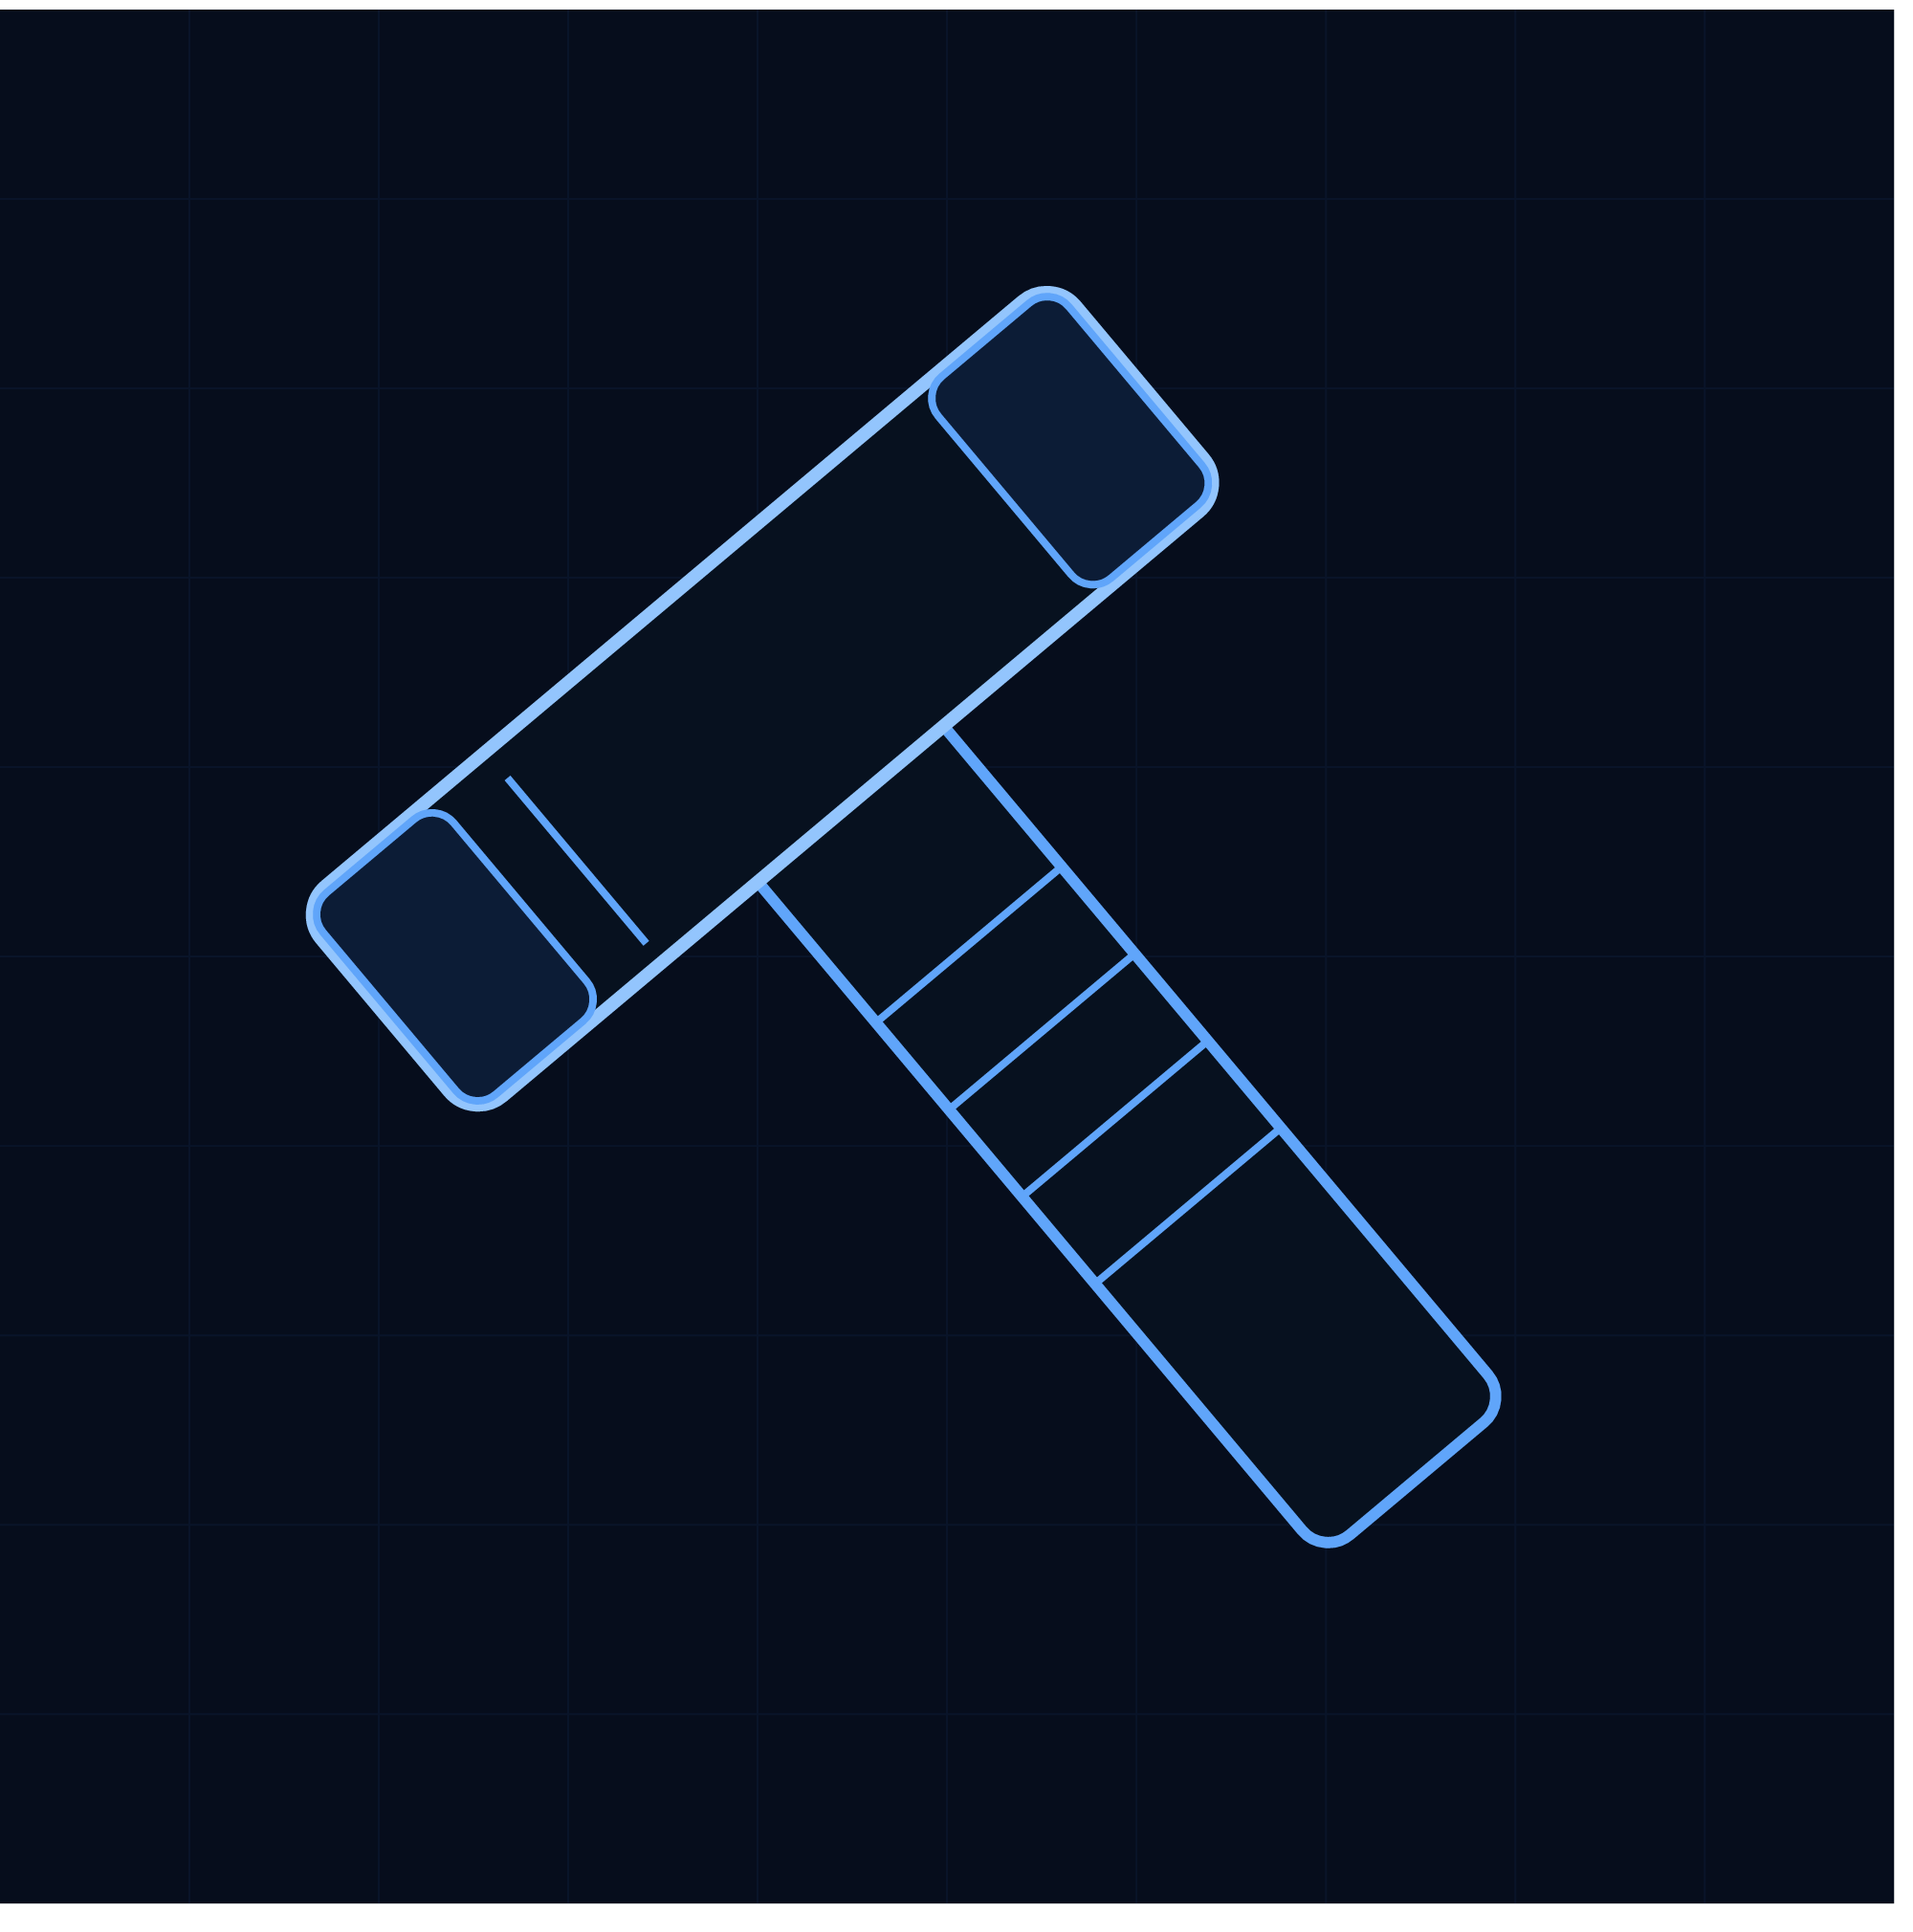
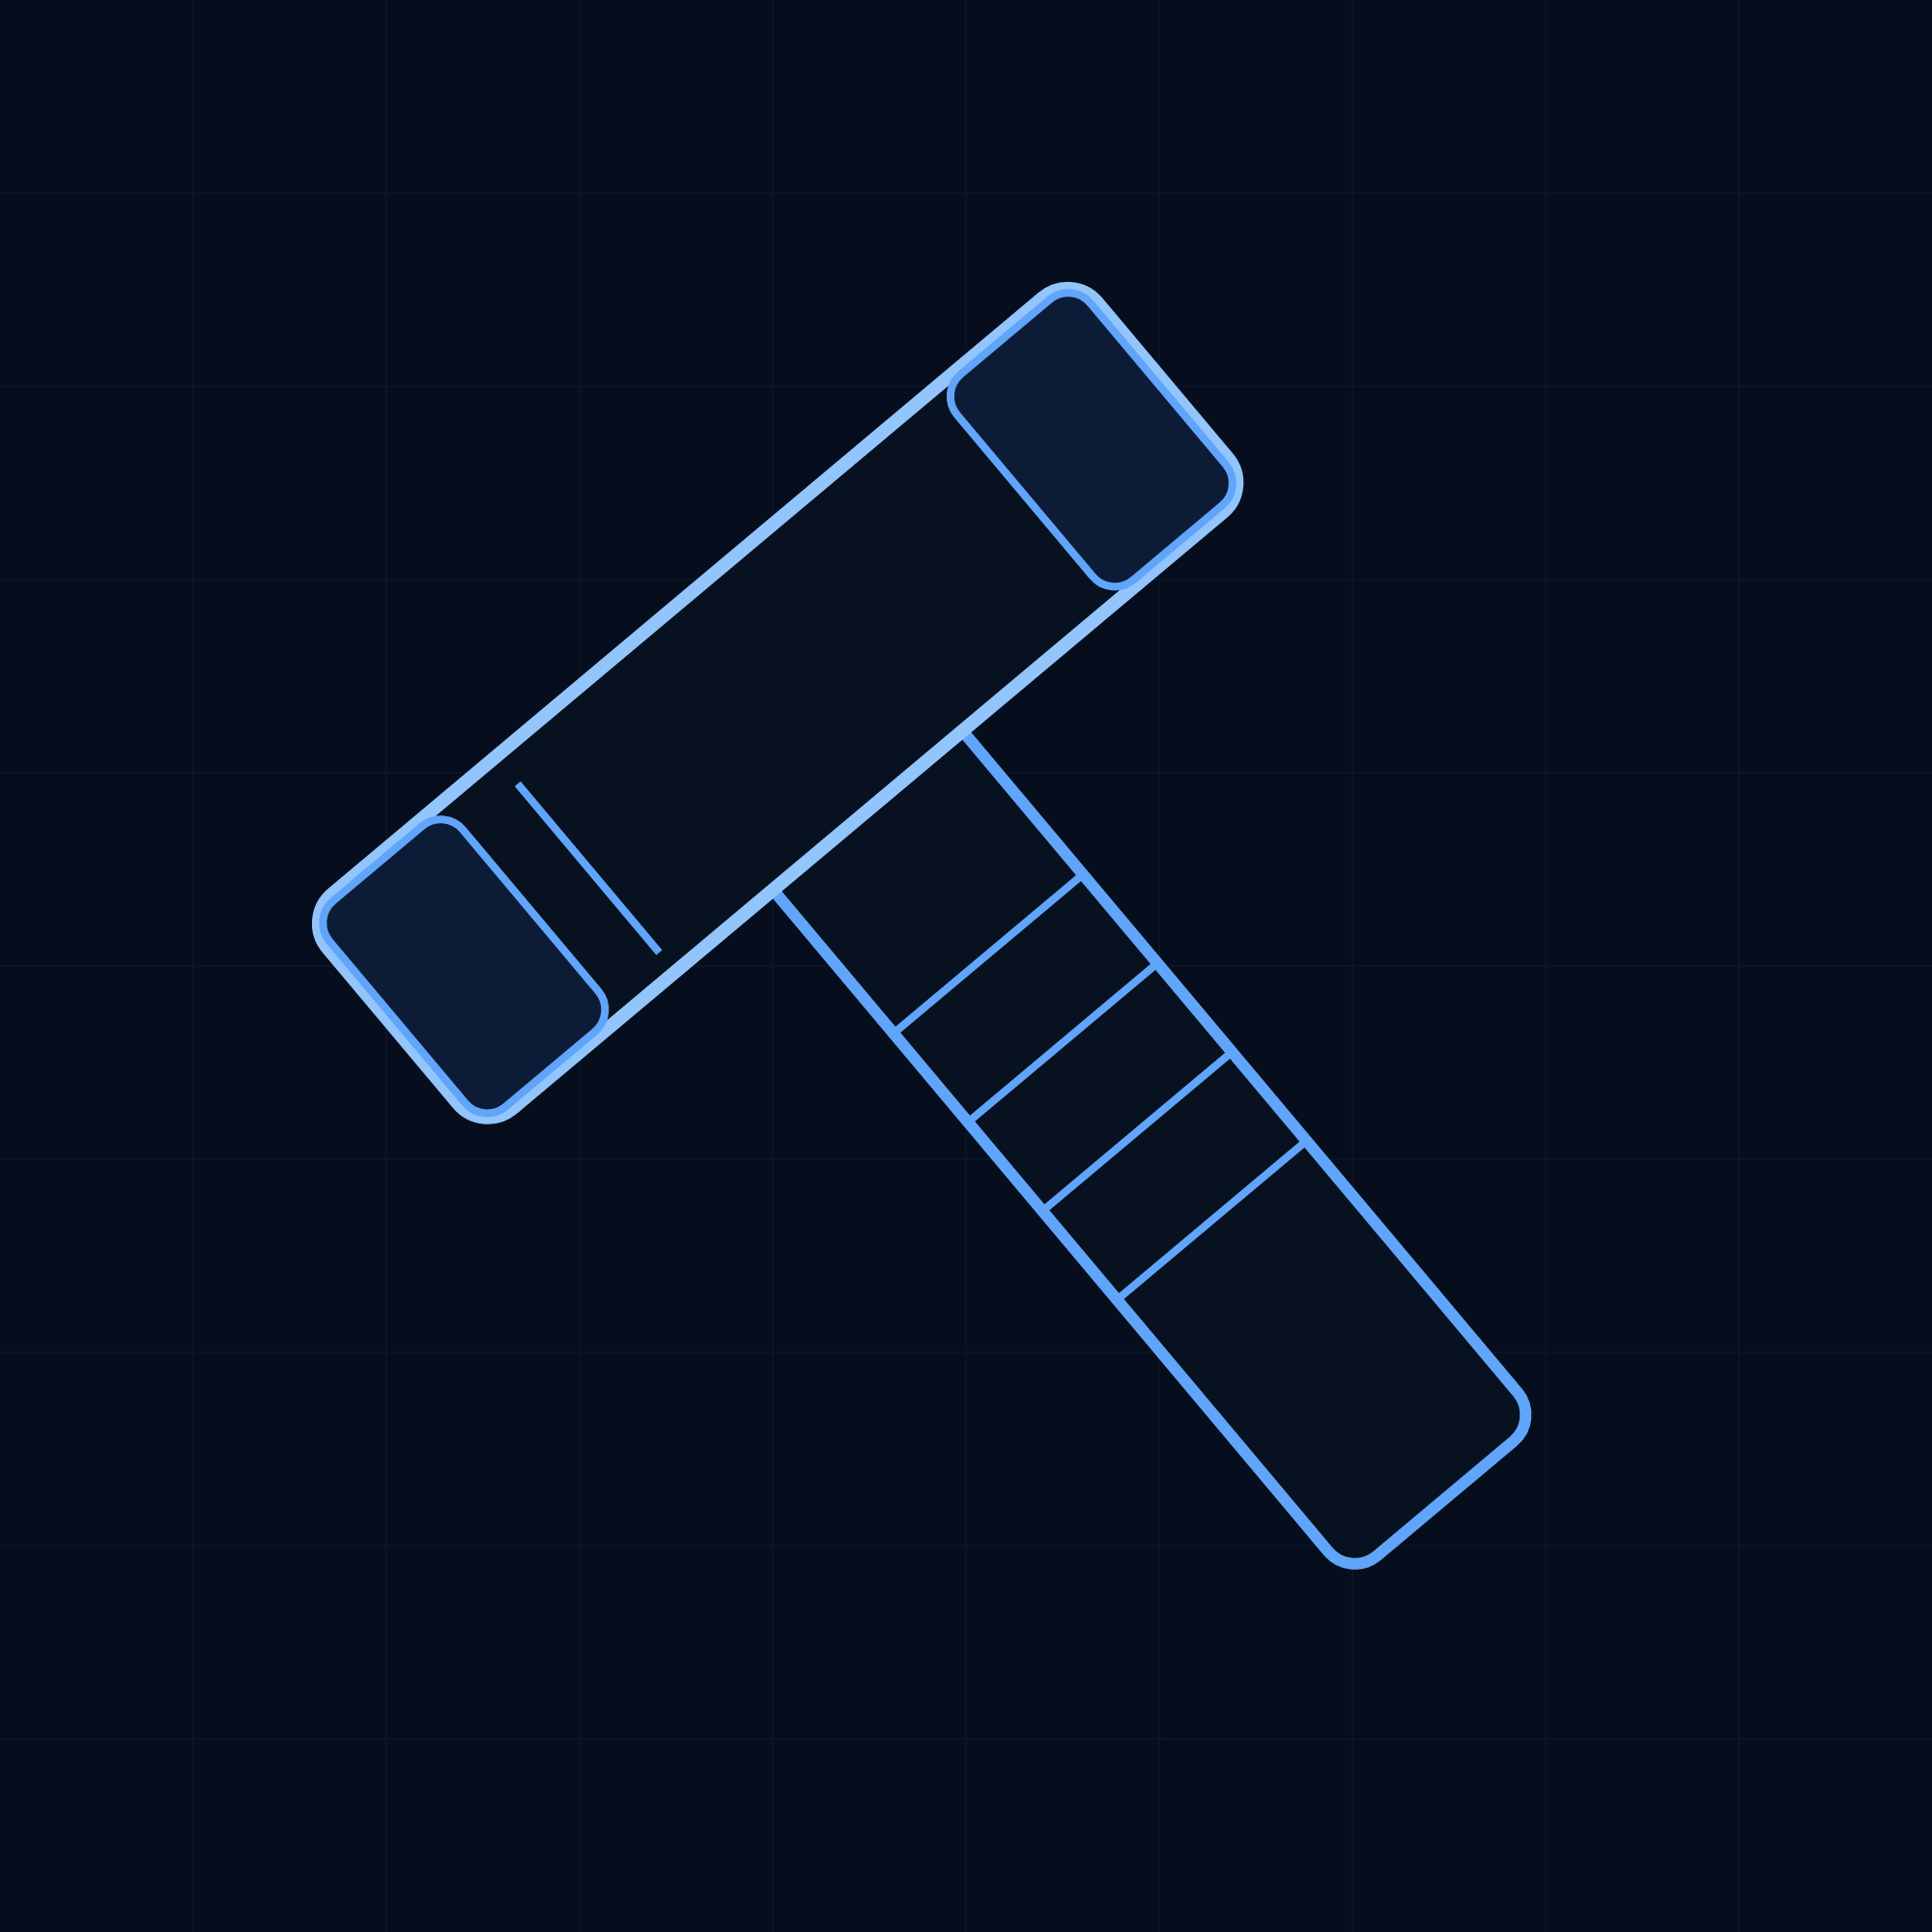
fix: fix image

diff --git a/apps/bot/src/utils/emoji.ts b/apps/bot/src/utils/emoji.ts
@@ -1,0 +1,7 @@
+export const Emoji = {
+    /**
+     * @preview ![img](https://cdn.discordapp.com/emojis/1511703911742832660.png) - https://cdn.discordapp.com/emojis/1511703911742832660.png
+     * @id 1511703911742832660
+     */
+    autokicker: "1511703911742832660"
+}